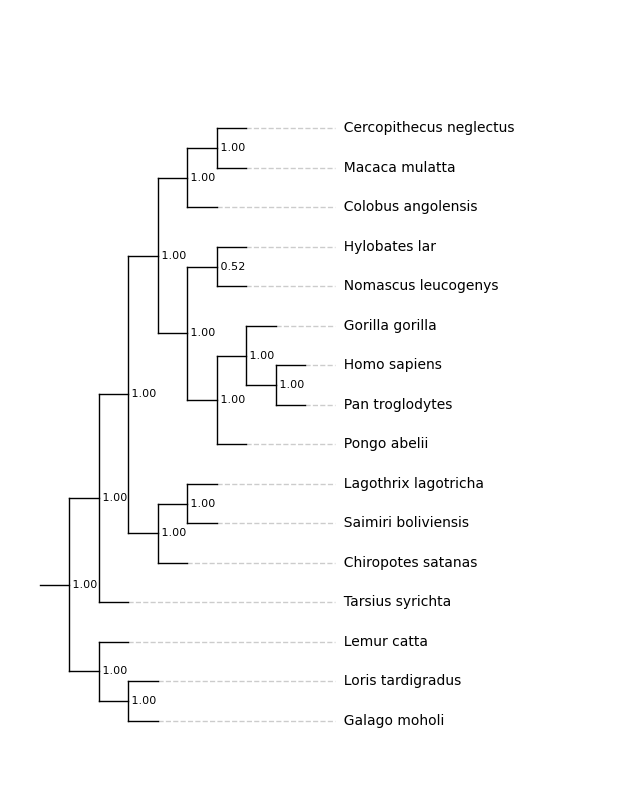
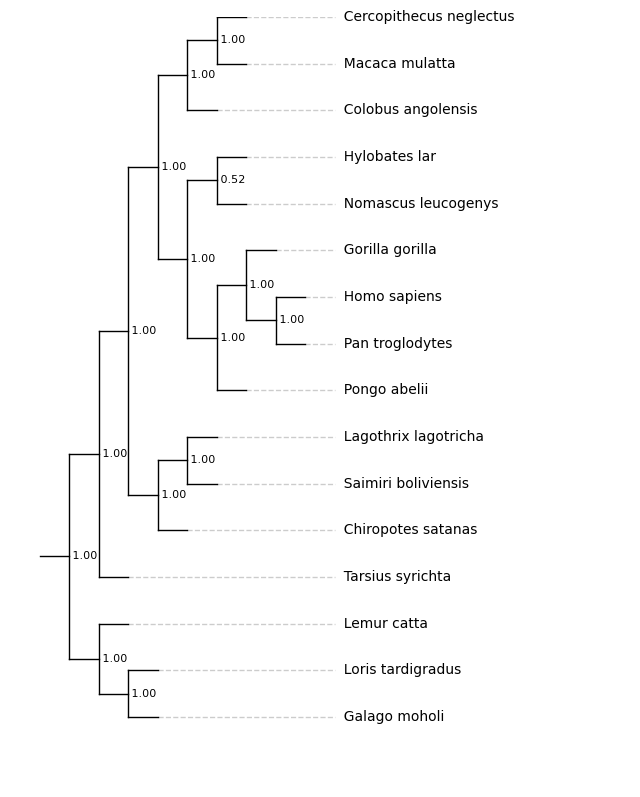
updated readme

diff --git a/README.md b/README.md
@@ -263,7 +263,7 @@ f = plt.figure(figsize=(8, 10))
 ax = plt.subplot()
 ax.set_xlim(-1, 20)
 # ylim is set explicitly before drawing the plot
-ax.set_ylim(-1, 12)
+ax.set_ylim(-1, 10)
 
 results = plot_tree.plot_tree("examples/primates.nw", ax, branch_lengths=False, align_tips=True)
 
